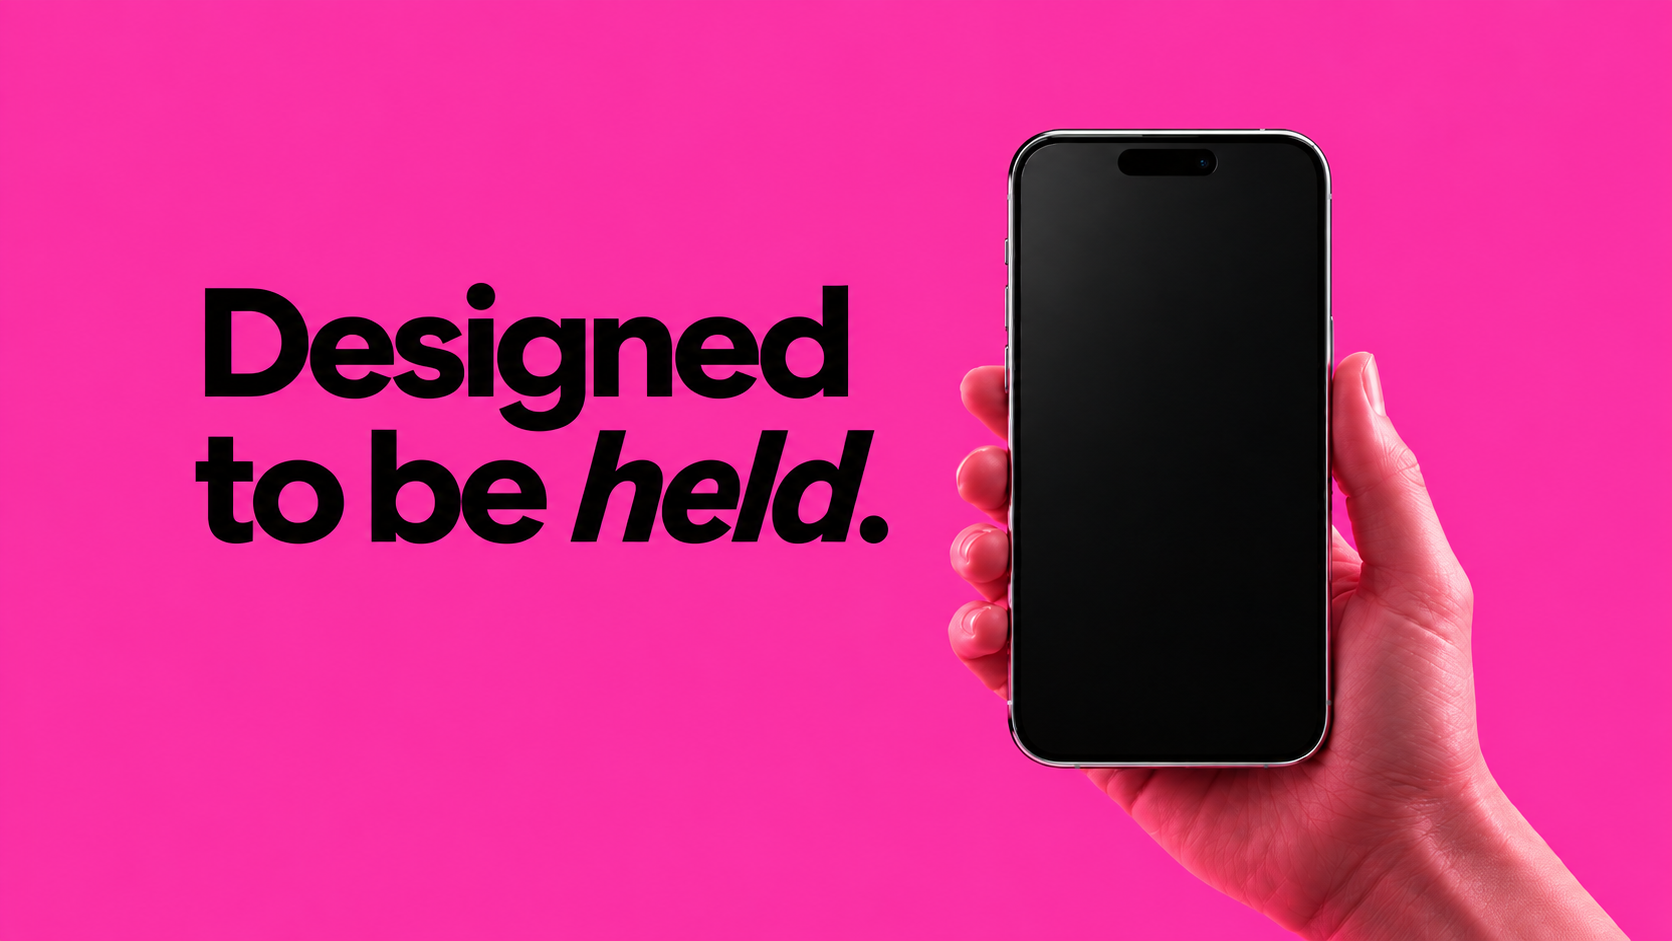
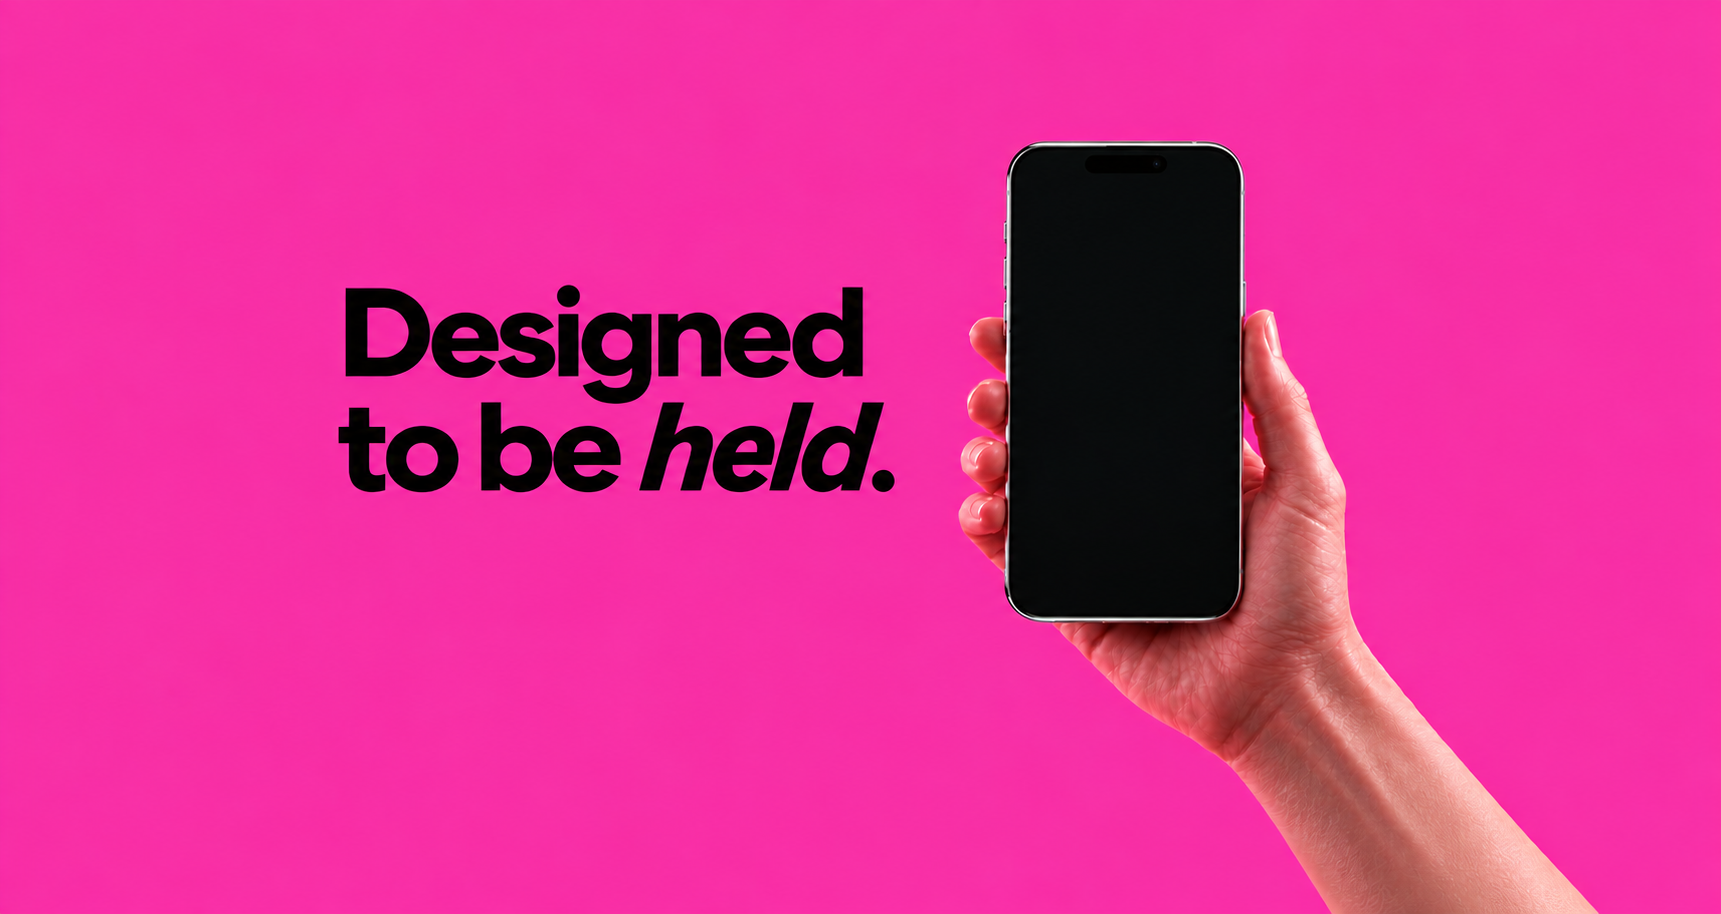
Refresh desktop gate with new bg and scratch overlay assets
Replace the handoff background with the longer-forearm composition,
reposition the About screenshot to the new phone screen, and use
scratch-card-overlay.png as the canvas scratch layer over the white
QR + Scan Me reveal card.

Changed region(s): [[0.0933, 0.1225, 0.9952, 1.0]]

diff --git a/desktop-gate/gate.js b/desktop-gate/gate.js
@@ -1,67 +1,13 @@
 /**
  * Desktop gate — scratch-to-reveal QR.
- * Active only when the desktop gate is shown (≥768px).
+ * Scratch layer is the supplied scratch-card-overlay.png drawn on canvas.
  */
 (function () {
   const REVEAL_THRESHOLD = 0.45;
+  const OVERLAY_SRC = "desktop-gate/images/scratch-card-overlay.png";
 
   function prefersDesktop() {
     return window.matchMedia("(min-width: 768px)").matches;
-  }
-
-  function fillOverlay(ctx, width, height) {
-    ctx.setTransform(1, 0, 0, 1, 0, 0);
-    ctx.clearRect(0, 0, ctx.canvas.width, ctx.canvas.height);
-    const dpr = ctx.canvas.width / width;
-    ctx.setTransform(dpr, 0, 0, dpr, 0, 0);
-
-    // Frosted / glass-like translucent pink
-    ctx.globalCompositeOperation = "source-over";
-    const base = ctx.createLinearGradient(0, 0, width, height);
-    base.addColorStop(0, "rgba(255, 200, 225, 0.92)");
-    base.addColorStop(0.4, "rgba(246, 130, 190, 0.9)");
-    base.addColorStop(1, "rgba(236, 78, 155, 0.92)");
-    ctx.fillStyle = base;
-    ctx.fillRect(0, 0, width, height);
-
-    // Soft glass sheen
-    const sheen = ctx.createLinearGradient(0, 0, 0, height);
-    sheen.addColorStop(0, "rgba(255, 255, 255, 0.42)");
-    sheen.addColorStop(0.35, "rgba(255, 255, 255, 0.14)");
-    sheen.addColorStop(0.7, "rgba(255, 255, 255, 0.05)");
-    sheen.addColorStop(1, "rgba(120, 20, 70, 0.12)");
-    ctx.fillStyle = sheen;
-    ctx.fillRect(0, 0, width, height);
-
-    // Fine frosted grain
-    ctx.save();
-    for (let i = 0; i < Math.floor(width * height * 0.06); i += 1) {
-      const x = Math.random() * width;
-      const y = Math.random() * height;
-      const a = 0.03 + Math.random() * 0.08;
-      ctx.fillStyle =
-        Math.random() > 0.5
-          ? "rgba(255, 255, 255, " + a + ")"
-          : "rgba(90, 15, 50, " + a + ")";
-      ctx.fillRect(x, y, 1, 1);
-    }
-    ctx.restore();
-
-    // Inner edge hint (glass rim)
-    ctx.strokeStyle = "rgba(255, 255, 255, 0.35)";
-    ctx.lineWidth = 1.25;
-    ctx.strokeRect(0.75, 0.75, width - 1.5, height - 1.5);
-
-    // “Scratch / me” — handwritten, restrained
-    ctx.fillStyle = "#111111";
-    ctx.textAlign = "center";
-    ctx.textBaseline = "middle";
-    const size = Math.max(15, Math.min(width, height) * 0.175);
-    ctx.font = '600 ' + size + 'px "Caveat", "Segoe Print", cursive';
-    const lineGap = size * 0.92;
-    const cy = height / 2;
-    ctx.fillText("Scratch", width / 2, cy - lineGap * 0.45);
-    ctx.fillText("me", width / 2, cy + lineGap * 0.55);
   }
 
   function clearRatio(ctx, pixelW, pixelH) {
@@ -78,7 +24,7 @@
     return total ? clear / total : 0;
   }
 
-  function initScratch(canvas) {
+  function initScratch(canvas, overlayImg) {
     const wrap = canvas.closest(".scratch-card");
     if (!wrap) return;
 
@@ -88,6 +34,15 @@
     let cssW = 0;
     let cssH = 0;
     let dpr = 1;
+    let lastX = 0;
+    let lastY = 0;
+
+    function paintOverlay() {
+      ctx.setTransform(dpr, 0, 0, dpr, 0, 0);
+      ctx.globalCompositeOperation = "source-over";
+      ctx.clearRect(0, 0, cssW, cssH);
+      ctx.drawImage(overlayImg, 0, 0, cssW, cssH);
+    }
 
     function syncSize() {
       const rect = wrap.getBoundingClientRect();
@@ -98,10 +53,10 @@
       canvas.height = Math.round(cssH * dpr);
       canvas.style.width = cssW + "px";
       canvas.style.height = cssH + "px";
-      ctx.setTransform(dpr, 0, 0, dpr, 0, 0);
       if (!revealed) {
-        fillOverlay(ctx, cssW, cssH);
+        paintOverlay();
       } else {
+        ctx.setTransform(dpr, 0, 0, dpr, 0, 0);
         ctx.clearRect(0, 0, cssW, cssH);
         canvas.style.opacity = "0";
       }
@@ -137,9 +92,6 @@
         ctx.clearRect(0, 0, cssW, cssH);
       }, 480);
     }
-
-    let lastX = 0;
-    let lastY = 0;
 
     function onDown(event) {
       if (revealed) return;
@@ -193,18 +145,15 @@
     const canvas = document.querySelector("[data-scratch-canvas]");
     if (!canvas) return;
 
-    function start() {
-      initScratch(canvas);
-    }
-
-    if (document.fonts && document.fonts.load) {
-      document.fonts
-        .load('600 24px "Caveat"')
-        .then(start)
-        .catch(start);
-    } else {
-      start();
-    }
+    const img = new Image();
+    img.decoding = "async";
+    img.onload = function () {
+      initScratch(canvas, img);
+    };
+    img.onerror = function () {
+      initScratch(canvas, img);
+    };
+    img.src = OVERLAY_SRC;
   }
 
   if (document.readyState === "loading") {

diff --git a/desktop-gate/styles.css b/desktop-gate/styles.css
@@ -36,9 +36,9 @@
     width: min(
       100%,
       72rem,
-      calc((100vh - clamp(1.25rem, 3.5vw, 3rem)) * 1672 / 941)
+      calc((100vh - clamp(1.25rem, 3.5vw, 3rem)) * 1721 / 914)
     );
-    aspect-ratio: 1672 / 941;
+    aspect-ratio: 1721 / 914;
     max-height: calc(100vh - clamp(1.25rem, 3.5vw, 3rem));
   }
 
@@ -47,21 +47,21 @@
     width: 100%;
     height: 100%;
     object-fit: contain;
-    object-position: center;
+    object-position: center bottom;
     pointer-events: none;
     user-select: none;
     -webkit-user-drag: none;
   }
 
-  /* Phone display — percentages from desktop-mobile-gate-bg.png (1672×941) */
+  /* Phone display — percentages from new desktop-mobile-gate-bg.png (1721×914) */
   .desktop-gate__screen {
     position: absolute;
-    left: 60.7057%;
-    top: 14.559%;
-    width: 18.5407%;
-    height: 66.419%;
+    left: 58.745%;
+    top: 15.973%;
+    width: 13.248%;
+    height: 51.531%;
     overflow: hidden;
-    border-radius: 12% / 6%;
+    border-radius: 12% / 5.8%;
     background: #000;
     pointer-events: none;
   }
@@ -75,7 +75,6 @@
     filter: none;
   }
 
-  /* Restore Dynamic Island over the screenshot */
   .desktop-gate__island {
     position: absolute;
     left: 50%;
@@ -88,26 +87,24 @@
     pointer-events: none;
   }
 
-  /* Scratch / QR card — centred under “Designed to be held.” */
+  /* Scratch / QR — centred under “Designed to be held.” */
   .desktop-gate__qr-unit {
     position: absolute;
-    left: 32.4%;
-    top: 62.5%;
+    left: 35.8%;
+    top: 58.5%;
     z-index: 2;
     transform: translateX(-50%);
   }
 
   .scratch-card {
-    --scratch-w: clamp(4.3rem, 8.6vw, 5.8rem);
+    /* Match scratch-card-overlay.png proportions (~1.395) */
+    --scratch-w: clamp(4.5rem, 8.2vw, 6rem);
     position: relative;
     width: var(--scratch-w);
-    height: calc(var(--scratch-w) * 1.22);
-    border-radius: 0.7rem;
+    height: calc(var(--scratch-w) * 1.395);
+    border-radius: 18%;
     overflow: hidden;
-    border: 1px solid rgba(255, 255, 255, 0.42);
-    box-shadow:
-      0 6px 18px rgba(80, 8, 40, 0.14),
-      0 1px 2px rgba(80, 8, 40, 0.08);
+    box-shadow: 0 8px 20px rgba(60, 5, 30, 0.16);
   }
 
   .scratch-card__face {
@@ -118,8 +115,9 @@
     align-items: center;
     justify-content: flex-start;
     box-sizing: border-box;
-    padding: 11% 11% 10%;
+    padding: 12% 12% 11%;
     background: #ffffff;
+    border-radius: inherit;
   }
 
   .scratch-card__qr {

diff --git a/index.html b/index.html
@@ -11,12 +11,12 @@
     <link rel="preconnect" href="https://fonts.googleapis.com" />
     <link rel="preconnect" href="https://fonts.gstatic.com" crossorigin />
     <link
-      href="https://fonts.googleapis.com/css2?family=Caveat:wght@500;600&family=Instrument+Sans:ital,wght@0,400;0,500;0,600;0,700;1,400&display=swap"
+      href="https://fonts.googleapis.com/css2?family=Instrument+Sans:ital,wght@0,400;0,500;0,600;0,700;1,400&display=swap"
       rel="stylesheet"
     />
     <link rel="stylesheet" href="freedom/styles.css?v=about-42" />
     <link rel="stylesheet" href="about/theme.css?v=about-37" />
-    <link rel="stylesheet" href="desktop-gate/styles.css?v=gate-3" />
+    <link rel="stylesheet" href="desktop-gate/styles.css?v=gate-4" />
   </head>
   <body class="page-about">
     <div class="desktop-gate" aria-label="Open this portfolio on your phone">
@@ -25,8 +25,8 @@
           class="desktop-gate__bg"
           src="desktop-gate/images/desktop-mobile-gate-bg.png"
           alt=""
-          width="1672"
-          height="941"
+          width="1721"
+          height="914"
           decoding="async"
         />
         <div class="desktop-gate__screen" aria-hidden="true">
@@ -703,6 +703,6 @@
 
     <script src="freedom/main.js?v=about-37" defer></script>
     <script src="about/about.js?v=about-37" defer></script>
-    <script src="desktop-gate/gate.js?v=gate-2" defer></script>
+    <script src="desktop-gate/gate.js?v=gate-4" defer></script>
   </body>
 </html>
